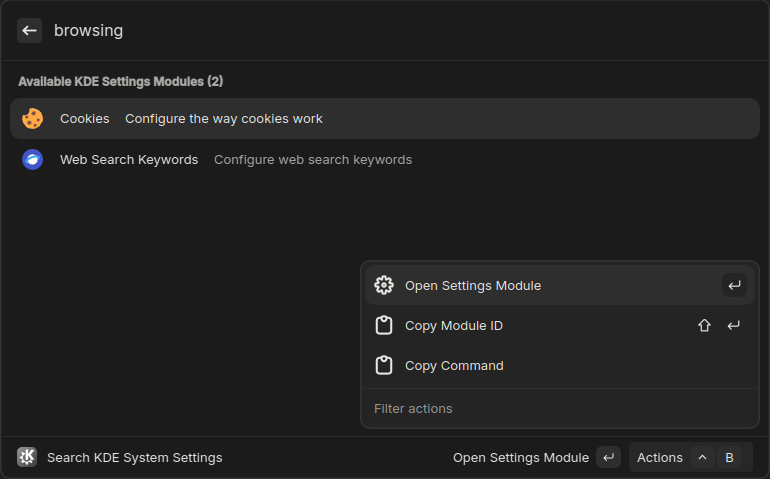
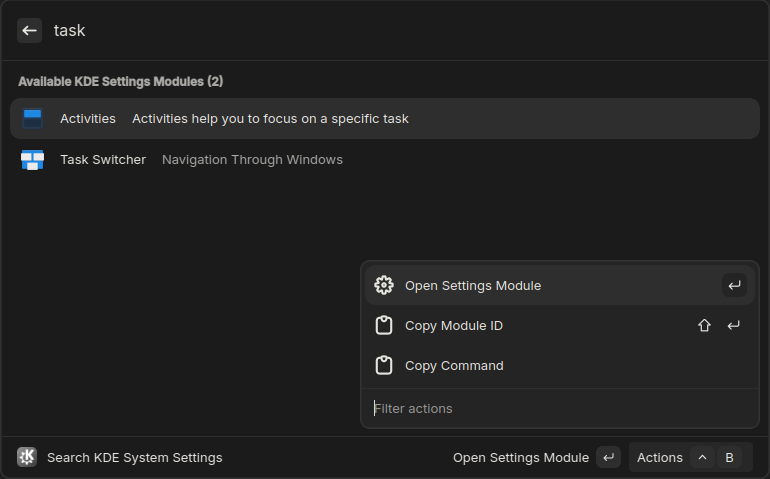
exclude KDE 5 modules by default and add a preferences option, add support for modules executed with `kcmshell6`, and use kcmshell6 --list to pull kde6 module descriptions

Changed region(s): [[0.0, 0.2046, 0.5299, 0.3507], [0.0623, 0.0585, 0.1558, 0.0877]]

diff --git a/src/utils/module-loader.ts b/src/utils/module-loader.ts
@@ -1,5 +1,9 @@
 import { readFileSync, readdirSync, existsSync } from "fs";
 import { join } from "path";
+import { exec } from "child_process";
+import { promisify } from "util";
+
+const execAsync = promisify(exec);
 
 export interface KCMModule {
   id: string;
@@ -8,9 +12,35 @@ export interface KCMModule {
   icon: string;
   keywords: string[];
   execCommand: string;
+  isKDE5: boolean;
 }
 
-function parseDesktopFile(filePath: string): KCMModule | null {
+async function loadKCMDescriptions(): Promise<Map<string, string>> {
+  const descriptionsMap = new Map<string, string>();
+
+  try {
+    const { stdout } = await execAsync("kcmshell6 --list", { timeout: 5000 });
+    const lines = stdout.split("\n");
+
+    for (const line of lines) {
+      if (line.startsWith("The following") || !line.trim()) continue;
+
+      const match = line.match(/^(\S+)\s+-\s+(.+)$/);
+      if (match && match[1] && match[2]) {
+        descriptionsMap.set(match[1], match[2].trim());
+      }
+    }
+  } catch (error) {
+    console.error("Failed to load kcmshell6 descriptions:", error);
+  }
+
+  return descriptionsMap;
+}
+
+function parseDesktopFile(
+  filePath: string,
+  descriptionsMap: Map<string, string>
+): KCMModule | null {
   try {
     const content = readFileSync(filePath, "utf-8");
     const lines = content.split("\n");
@@ -46,8 +76,15 @@ function parseDesktopFile(filePath: string): KCMModule | null {
 
     let finalModuleId = "";
     let finalCommand = "";
+    let isKDE5 = false;
 
     if (execCommand.includes("systemsettings")) {
+      const parts = execCommand.split(/\s+/);
+      if (parts.length > 1 && parts[1]) {
+        finalModuleId = parts[1];
+        finalCommand = execCommand;
+      }
+    } else if (execCommand.includes("kcmshell6")) {
       const parts = execCommand.split(/\s+/);
       if (parts.length > 1 && parts[1]) {
         finalModuleId = parts[1];
@@ -56,17 +93,25 @@ function parseDesktopFile(filePath: string): KCMModule | null {
     } else if (moduleId) {
       finalModuleId = moduleId;
       finalCommand = `kcmshell6 ${moduleId}`;
+      isKDE5 = moduleId.includes("systemsettings_qwidgets") || moduleId.includes("kf5/");
     }
 
     if (!finalModuleId) return null;
 
+    if (filePath.includes("/kservices5/") || filePath.includes("/kservices6/")) {
+      isKDE5 = true;
+    }
+
+    const finalDescription = descriptionsMap.get(finalModuleId) || description || name;
+
     return {
       id: finalModuleId,
       name,
-      description: description || name,
+      description: finalDescription,
       icon: icon || "preferences-system",
       keywords,
       execCommand: finalCommand,
+      isKDE5,
     };
   } catch (error) {
     console.error(`Error parsing ${filePath}:`, error);
@@ -74,7 +119,8 @@ function parseDesktopFile(filePath: string): KCMModule | null {
   }
 }
 
-export function loadKCMModules(): KCMModule[] {
+export async function loadKCMModules(): Promise<KCMModule[]> {
+  const descriptionsMap = await loadKCMDescriptions();
   const modules: KCMModule[] = [];
   const seen = new Set<string>();
 
@@ -85,7 +131,7 @@ export function loadKCMModules(): KCMModule[] {
       for (const file of files) {
         if (file.startsWith("kcm_") && file.endsWith(".desktop")) {
           const filePath = join(applicationsDir, file);
-          const module = parseDesktopFile(filePath);
+          const module = parseDesktopFile(filePath, descriptionsMap);
           if (module && !seen.has(module.id)) {
             modules.push(module);
             seen.add(module.id);
@@ -104,7 +150,7 @@ export function loadKCMModules(): KCMModule[] {
       for (const file of files) {
         if (file.endsWith(".desktop")) {
           const filePath = join(kservices5Dir, file);
-          const module = parseDesktopFile(filePath);
+          const module = parseDesktopFile(filePath, descriptionsMap);
           if (module && !seen.has(module.id)) {
             modules.push(module);
             seen.add(module.id);
@@ -123,7 +169,7 @@ export function loadKCMModules(): KCMModule[] {
       for (const file of files) {
         if (file.endsWith(".desktop")) {
           const filePath = join(kservices6Dir, file);
-          const module = parseDesktopFile(filePath);
+          const module = parseDesktopFile(filePath, descriptionsMap);
           if (module && !seen.has(module.id)) {
             modules.push(module);
             seen.add(module.id);

diff --git a/src/search-kde-settings.tsx b/src/search-kde-settings.tsx
@@ -1,18 +1,38 @@
-import { ActionPanel, Action, List, LaunchProps, Icon } from "@vicinae/api";
+import {
+  ActionPanel,
+  Action,
+  List,
+  LaunchProps,
+  Icon,
+  getPreferenceValues,
+} from "@vicinae/api";
 import { useState, useEffect } from "react";
 import { openKCMModule } from "./utils/open-module-command";
 import { loadKCMModules, type KCMModule } from "./utils/module-loader";
+
+interface Preferences {
+  showKDE5Modules: boolean;
+}
 
 export default function SearchSettings(props: LaunchProps) {
   const [modules, setModules] = useState<KCMModule[]>([]);
   const [isLoading, setIsLoading] = useState(true);
   const [searchText, setSearchText] = useState(props.fallbackText || "");
+  const preferences = getPreferenceValues<Preferences>();
 
   useEffect(() => {
-    const loadedModules = loadKCMModules();
-    setModules(loadedModules);
-    setIsLoading(false);
-  }, []);
+    const loadModules = async () => {
+      const loadedModules = await loadKCMModules();
+      const filteredModules = preferences.showKDE5Modules
+        ? loadedModules
+        : loadedModules.filter((m) => !m.isKDE5);
+
+      setModules(filteredModules);
+      setIsLoading(false);
+    };
+
+    loadModules();
+  }, [preferences.showKDE5Modules]);
 
   const filteredModules = modules.filter((module: KCMModule) => {
     if (!searchText) return true;
